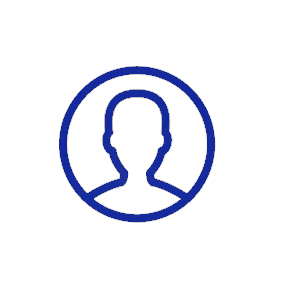
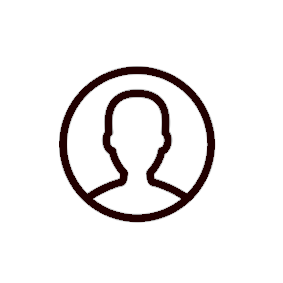
헤더 css 수정

Changed region(s): [[0.1979, 0.2261, 0.7633, 0.7915]]

diff --git a/2. 개발/FreSearch/src/main/webapp/resources/css/style.css b/2. 개발/FreSearch/src/main/webapp/resources/css/style.css
@@ -558,6 +558,10 @@ body {
     margin-bottom: 2px;
 }
 
+.container>.fixed_box>.header>.upper>.login>.dropdown>.dropbtn img {
+	width: 26px;
+}
+
 .container>.fixed_box>.header>.upper>.login>.dropdown {
 	position: relative;
 	display: inline-block;
@@ -573,6 +577,7 @@ body {
 	z-index: 1;
 	/* margin-left: -126px; */
 	margin-left: -30px;
+	margin-top: -5px;
 	padding: 8px 0;
 	list-style: none;
 	text-align: left;
@@ -584,13 +589,15 @@ body {
 	min-width: 184px;
 }
 
+
+
 .container>.fixed_box>.header>.upper>.login>.dropdown>.dropdown-content>.dropdown-form>a:nth-child(4) {
 	/* color: black;
 	padding: 7% 0;
 	text-decoration: none;
 	display: block;
 	font-family: 'Noto Sans CJK', AppleSDGothicNeo, 'Malgun Gothic', arial; */
-	color: #1428a0;
+	color: #666;
     padding: 7% 0;
     text-decoration: none;
     display: block;
@@ -598,7 +605,7 @@ body {
 }
 
 .container>.fixed_box>.header>.upper>.login>.dropdown>.dropdown-content>.dropdown-form>a:nth-child(5) {
-	color: #1428a0;
+	color: #666;
 	/* padding: 12px 57px; */
 	text-decoration: none;
 	display: block;
@@ -633,7 +640,7 @@ body {
     line-height: 17px;
     margin-bottom: -5px;
     font-weight: 600; */
-    color: #1428a0;
+    color: #222;
     padding: 0px 27% 0px 43px;
     text-decoration: none;
     display: block;
@@ -657,7 +664,7 @@ body {
 	margin-left: 24%;
 	line-height: 17px;
 	margin-bottom: 0; */
-	color: #1428a0;
+	color: #222;
     padding: 0 9%;
     text-decoration: none;
     display: block;
@@ -716,7 +723,7 @@ body {
 	vertical-align: unset; */
 	width: 14%;
     transition: all ease 1s;
-    margin-left: 8%;
+    margin-left: 9%;
     margin-top: -8%;
     margin-bottom: -8%;
     position: relative;
@@ -733,7 +740,7 @@ body {
 .container>.fixed_box>.header>.upper>.login>.dropdown>.dropdown-content>.dropdown-form>a:nth-child(5)>img {
 	width: 14%;
     transition: all ease 1s;
-    margin-left: 8%;
+    margin-left: 9%;
     margin-top: 7%;
     margin-bottom: 2%;
     position: relative;
@@ -816,7 +823,7 @@ body {
 	position: absolute;
     margin-top: 7%;
     padding-left: 14px;
-    color: #1428a0;
+    color: #666;
     font-weight: 600;
 }
 .container .fixed_box .header .upper .login .dropdown .dropdown-content .span_signup {
@@ -825,7 +832,7 @@ body {
 	position: absolute;
     margin-top: 8%;
     padding-left: 10px;
-    color: #1428a0;
+    color: #666;
     font-weight: 600;
 }
 

diff --git a/2. 개발/FreSearch/src/main/webapp/resources/css/signup_success.css b/2. 개발/FreSearch/src/main/webapp/resources/css/signup_success.css
@@ -1,0 +1,8 @@
+body {
+	background-color: #f4f4f4;
+	font-family: "Open Sans", sans-serif;
+   	min-width: 850px;
+   	font-weight: 500;
+   	font-size: 16px;
+}
+

diff --git a/2. 개발/FreSearch/src/main/java/org/fs/service/MemberServiceImpl.java b/2. 개발/FreSearch/src/main/java/org/fs/service/MemberServiceImpl.java
@@ -113,19 +113,18 @@ public class MemberServiceImpl implements MemberService {
 		String key = getKey(false, 20);
 		mapper.getKey(mb_nick, key); 
 		MimeMessage mail = mailSender.createMimeMessage();
-		String htmlStr = "<h2>안녕하세요 FreSearch입니다</h2><br><br>" 
+		String htmlStr = "<h2>안녕하세요 FRESEARCH입니다.</h2><br><br>" 
 				+ "<h3>" + mb_nick + "님</h3>" + "<p>인증하기 버튼을 누르시면 로그인을 하실 수 있습니다 : " 
 				+ "<a href='http://localhost:8080/member/change_key?mb_nick="+ mb_nick +"&mb_email_key="+key+"'>인증하기</a></p>"
 				+ "(혹시 잘못 전달된 메일이라면 이 이메일을 무시하셔도 됩니다)";
 		try {
 			mail.setFrom(new InternetAddress("fresearch@naver.com")); //네이버 메일로 보낼때만 적용(구글은 없어도 전송가능)
-			mail.setSubject("[본인인증] 최운학님의 인증메일입니다", "utf-8");
+			mail.setSubject("[본인인증] FRESEARCH 회원가입 인증 메일입니다.", "utf-8");
 			mail.setText(htmlStr, "utf-8", "html");
 			mail.addRecipient(RecipientType.TO, new InternetAddress(mb_email));
 			mailSender.send(mail);
 		} catch (MessagingException e) {
 			e.printStackTrace();
-			
 		}
 	}
 
@@ -143,20 +142,17 @@ public class MemberServiceImpl implements MemberService {
 	public void findSend(String mb_email) {
 		log.info("서비스impl1 : " + mb_email);
 		MimeMessage mail = mailSender.createMimeMessage();
-		String htmlStr = "<h2>안녕하세요 FreSearch입니다</h2><br><br>" 
+		String htmlStr = "<h2>안녕하세요 FRESEARCH입니다.</h2><br><br>" 
 				+ "<h3>비밀번호를 찾기 위해 새 비밀번호로 변경하셔야 합니다.</h3>" + "<p>새 비밀번호로 변경 버튼을 누르시면 비밀번호 변경 페이지로 이동합니다" 
 				+ "<a href='http://localhost:8080/member/password_change?mb_email="+mb_email+"'> 새 비밀번호로 변경</a></p>"
 				+ "(혹시 잘못 전달된 메일이라면 이 이메일을 무시하셔도 됩니다)";
 		try {
-			log.info("서비스impl2 : " + mb_email);
 			mail.setFrom(new InternetAddress("fresearch@naver.com")); //네이버 메일로 보낼때만 적용(구글은 없어도 전송가능)
-			mail.setSubject("[본인인증] 비밀번호 찾기 인증 메일입니다", "utf-8");
+			mail.setSubject("[본인인증] FRESEARCH 비밀번호 찾기 인증 메일입니다.", "utf-8");
 			mail.setText(htmlStr, "utf-8", "html");
 			mail.addRecipient(RecipientType.TO, new InternetAddress(mb_email));
 			mailSender.send(mail);
-			log.info("서비스impl3 : " + mb_email);
 		} catch (MessagingException e) {
-			log.info("서비스impl4 : " + mb_email);
 			e.printStackTrace();
 		}
 	}
@@ -168,6 +164,4 @@ public class MemberServiceImpl implements MemberService {
 		
 		return result;
 	}
-	
-	
 }
